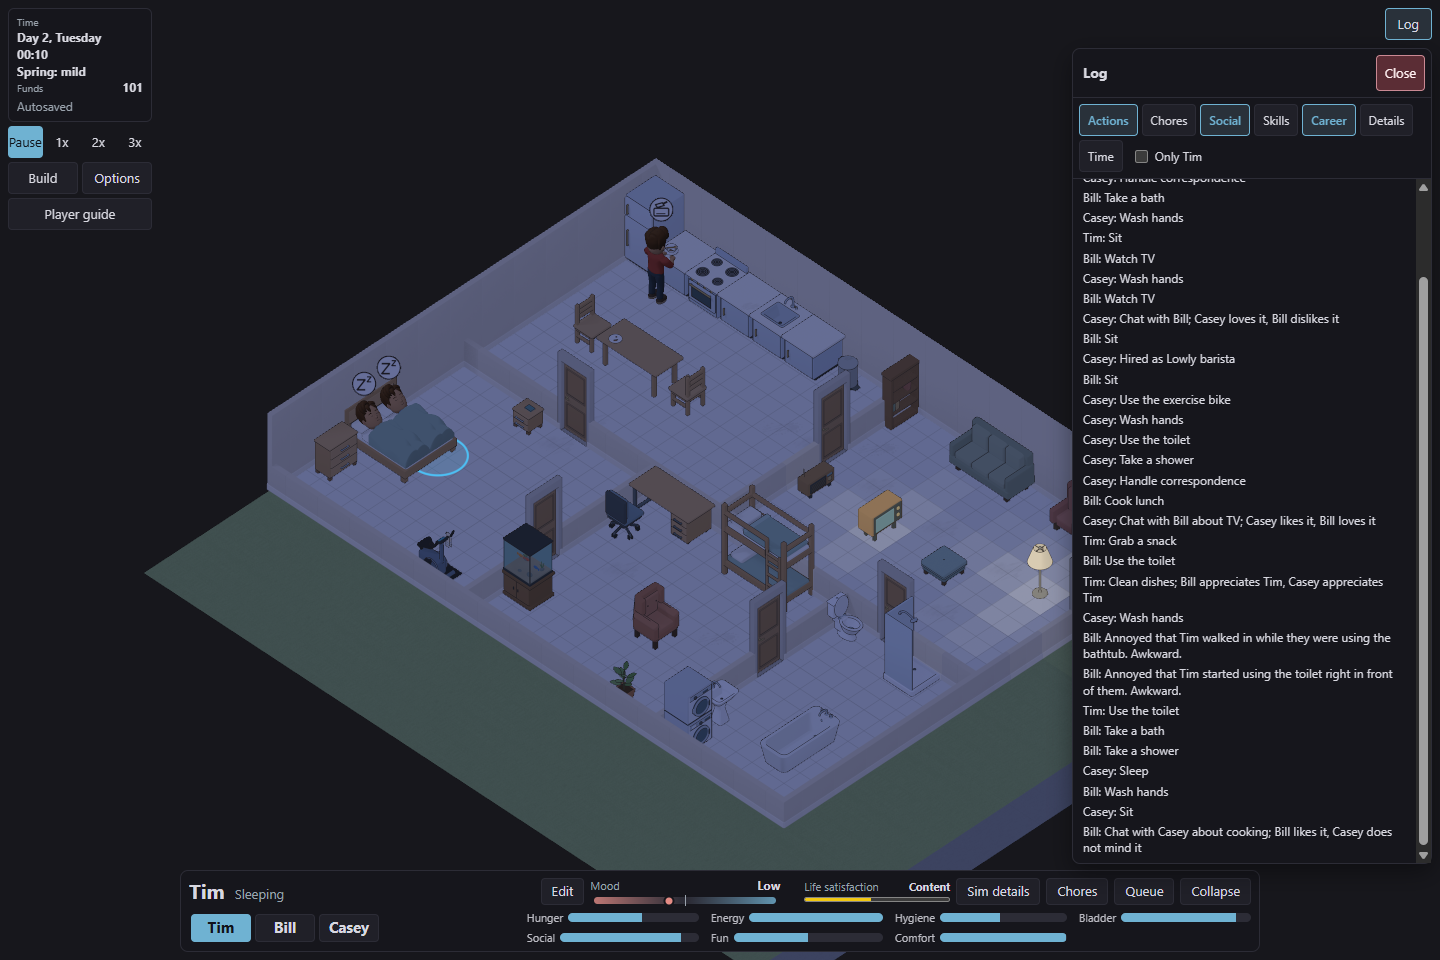
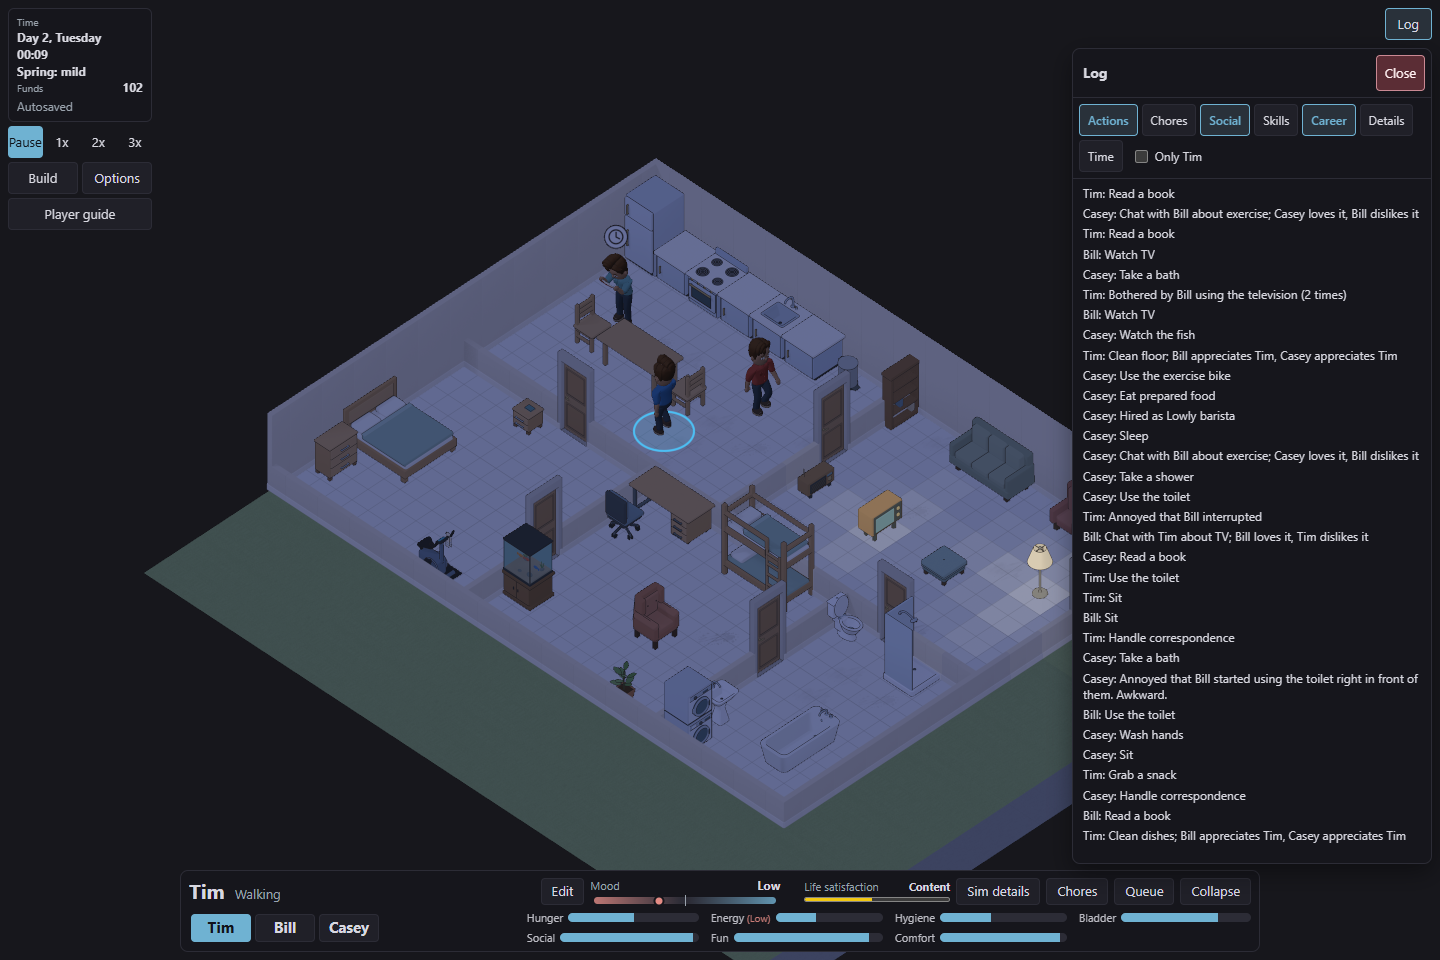
Recapture the Log guide figures at the newest line
The phone figure was scrolled to a privacy line and cut its bottom row
in half. The open and Only captures are retaken from the current build,
scrolled to the newest line, with the crops and capture provenance
updated; the phone privacy line is kept as evidence beside the record.

diff --git a/docs/evidence/2026-10-23-activity-log-guide/verification.md b/docs/evidence/2026-10-23-activity-log-guide/verification.md
@@ -4,19 +4,20 @@ This records the captures behind the player guide's [Log section](../../player/u
 
 ## Reproduction settings
 
-- Branch `twcl/275-activity-log` at `33ee7a4ac`, with main at `6d92fc561` merged. A release wasm and production bundle (`index-BAhtCSe1.js`, `terri_wasm_bg-DFgWgfcg.wasm`) served by `vite preview` at `http://127.0.0.1:5174/?stress=0&audio=0`. The build hashes and source file hashes are in the `activity-log` snapshot of `docs/player/screenshots.json`.
+- Branch `twcl/275-activity-log`, with main at `6d92fc561` merged, in two builds served by `vite preview` at `http://127.0.0.1:5174/?stress=0&audio=0`. The open, Only and phone privacy captures come from `e8d1d9018` (`index-B3WUuvwr.js`, `terri_wasm_bg-BQBZ8UbY.wasm`), snapshot `activity-log-review-fixes` in `docs/player/screenshots.json`. The Show earlier captures come from `33ee7a4ac` (`index-BAhtCSe1.js`, `terri_wasm_bg-DFgWgfcg.wasm`), snapshot `activity-log`. Between the two, the panel changed only in keeping the Only label current after a rename and in two focus rules, none of which these states show.
 - Playwright driving displayed Chrome 155.0.8059.85 started with `--mute-audio`; sound also off through `audio=0`. One browser; the desktop layout at 1440 by 960 and the phone layout at 390 by 844 (touch, mobile) each ran in their own context at device pixel ratio 1, closed after use.
-- First-run Help dismissed and play paused. The household was advanced with the paused game's frame stepping (`fastForward` in `scripts/activity-log-proof.cjs`) one game day at a time: one day on desktop and two on the phone until a privacy line was held, then six and seven days for Show earlier entries, which appears once more than 200 lines are visible.
+- First-run Help dismissed and play paused. The household was advanced with the paused game's frame stepping (`fastForward` in `scripts/activity-log-proof.cjs`) one game day at a time: one day in each layout until a privacy line was held, and six days on desktop and seven on the phone for Show earlier entries, which appears once more than 200 lines are visible. The open and Only captures are scrolled to the newest line.
 - Only Tim was ticked after choosing the first Household name, Tim, and stepping frames so the panel saw the selection.
 
 ## Captures and what each shows
 
 | File | Visible findings |
 | --- | --- |
-| `docs/player/images/ui-log-desktop.png` | Log open beside the house, below the Log button at the top right. Actions, Social and Career pressed; Chores, Skills, Details and Time not. Only Tim unticked at the end of the filter row. Lines from Tim, Bill and Casey, newest at the bottom, including "Bill: Annoyed that Tim walked in while they were using the bathtub. Awkward." and "Bill: Annoyed that Tim started using the toilet right in front of them. Awkward." Long lines wrap inside the panel. The panel ends above the dock. |
-| `docs/player/images/ui-log-mobile.png` | Phone: the Log covers the width from the top edge to the dock, with the Log button at the top right beside Close and the filter row on two lines. Scrolled to "Casey: Annoyed that Bill started using the bathtub right in front of them. Awkward.", which wraps onto a second line. |
-| `docs/player/images/ui-log-only-desktop.png` | Only Tim ticked: eight lines, each naming Tim, such as "Tim: Clean floor; Bill appreciates Tim, Casey appreciates Tim" and both of Bill's privacy lines about Tim. Lines involving only Bill and Casey are gone. |
-| `docs/player/images/ui-log-only-mobile.png` | Phone with Only Tim ticked: lines where Tim acts or is named, including "Bill: Chat with Tim about TV; Bill loves it, Tim dislikes it" and "Bill: Annoyed by Tim's dishes". |
+| `docs/player/images/ui-log-desktop.png` | Day 2: the Log open beside the house, below the Log button at the top right. Actions, Social and Career pressed; Chores, Skills, Details and Time not. Only Tim unticked at the end of the filter row. Thirty-two lines from Tim, Bill and Casey fit without scrolling, newest at the bottom and whole, including "Casey: Annoyed that Bill started using the toilet right in front of them. Awkward.", which wraps inside the panel, and "Tim: Bothered by Bill using the television (2 times)". The panel ends above the dock. |
+| `docs/player/images/ui-log-mobile.png` | Phone: the Log covers the width from the top edge to the dock, with the Log button at the top right beside Close and the filter row on two lines. Scrolled to the newest line, "Tim: Grab a snack", which shows whole above the panel's bottom edge; the top line is cut by the filter row, as a scrolled list is. |
+| `docs/evidence/2026-10-23-activity-log-guide/log-privacy-mobile.png` | The same phone Log scrolled up to "Bill: Annoyed that Casey started using the bathtub right in front of them. Awkward.", which wraps onto a second line inside the panel. |
+| `docs/player/images/ui-log-only-desktop.png` | Only Tim ticked: eleven lines, each naming Tim, such as "Tim: Clean floor; Bill appreciates Tim, Casey appreciates Tim" and "Bill: Chat with Tim about TV; Bill loves it, Tim dislikes it". Lines involving only Bill and Casey, including Casey's privacy line, are gone. |
+| `docs/player/images/ui-log-only-mobile.png` | Phone with Only Tim ticked: five lines where Tim acts or is named, such as "Tim: Clean floor; Bill appreciates Tim, Casey appreciates Tim". |
 | `docs/player/images/ui-log-show-earlier-desktop.png` | Day 7: Show earlier entries at the top of the list, above the oldest of 200 shown lines. |
 | `docs/player/images/ui-log-show-earlier-mobile.png` | The same on the phone, Day 8. |
 | `log-show-earlier-after-desktop.png` | After choosing Show earlier entries: the button is gone because only three earlier lines were still held, and the line that was first stays in place below them. |
